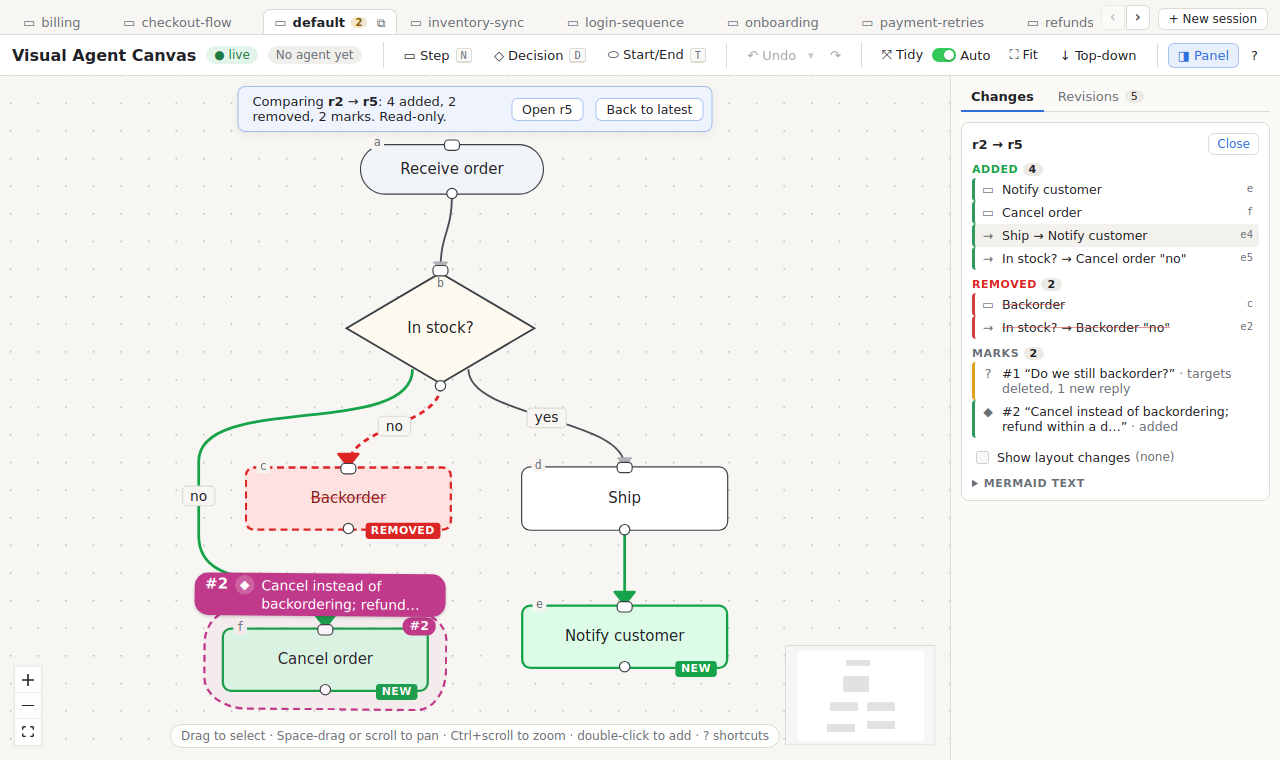
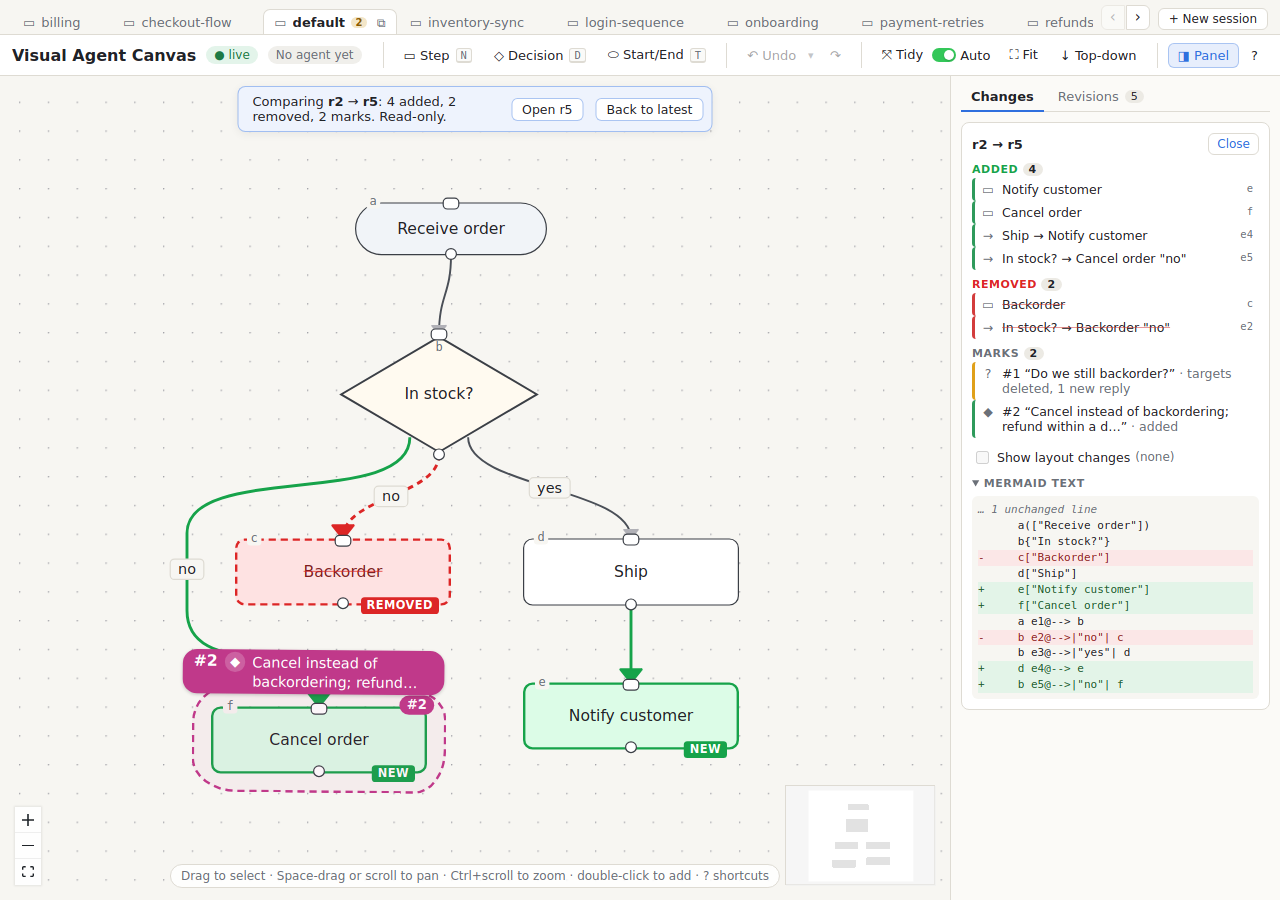
Changelog: compare screenshot shows the Mermaid text diff open

diff --git a/CHANGELOG.md b/CHANGELOG.md
@@ -28,7 +28,7 @@ revision read-only:
 The side panel lists every change and changed mark. You can also turn on layout moves and open a
 Mermaid text diff.
 
-![Comparing r2 and r5: Backorder removed in red, Cancel order and Notify customer added in green, the change list in the side panel](docs/changelog/compare-revisions.png)
+![Comparing r2 and r5: Backorder removed in red, Cancel order and Notify customer added in green, the change list and the Mermaid text diff in the side panel](docs/changelog/compare-revisions.png)
 
 ### Revision history
 
